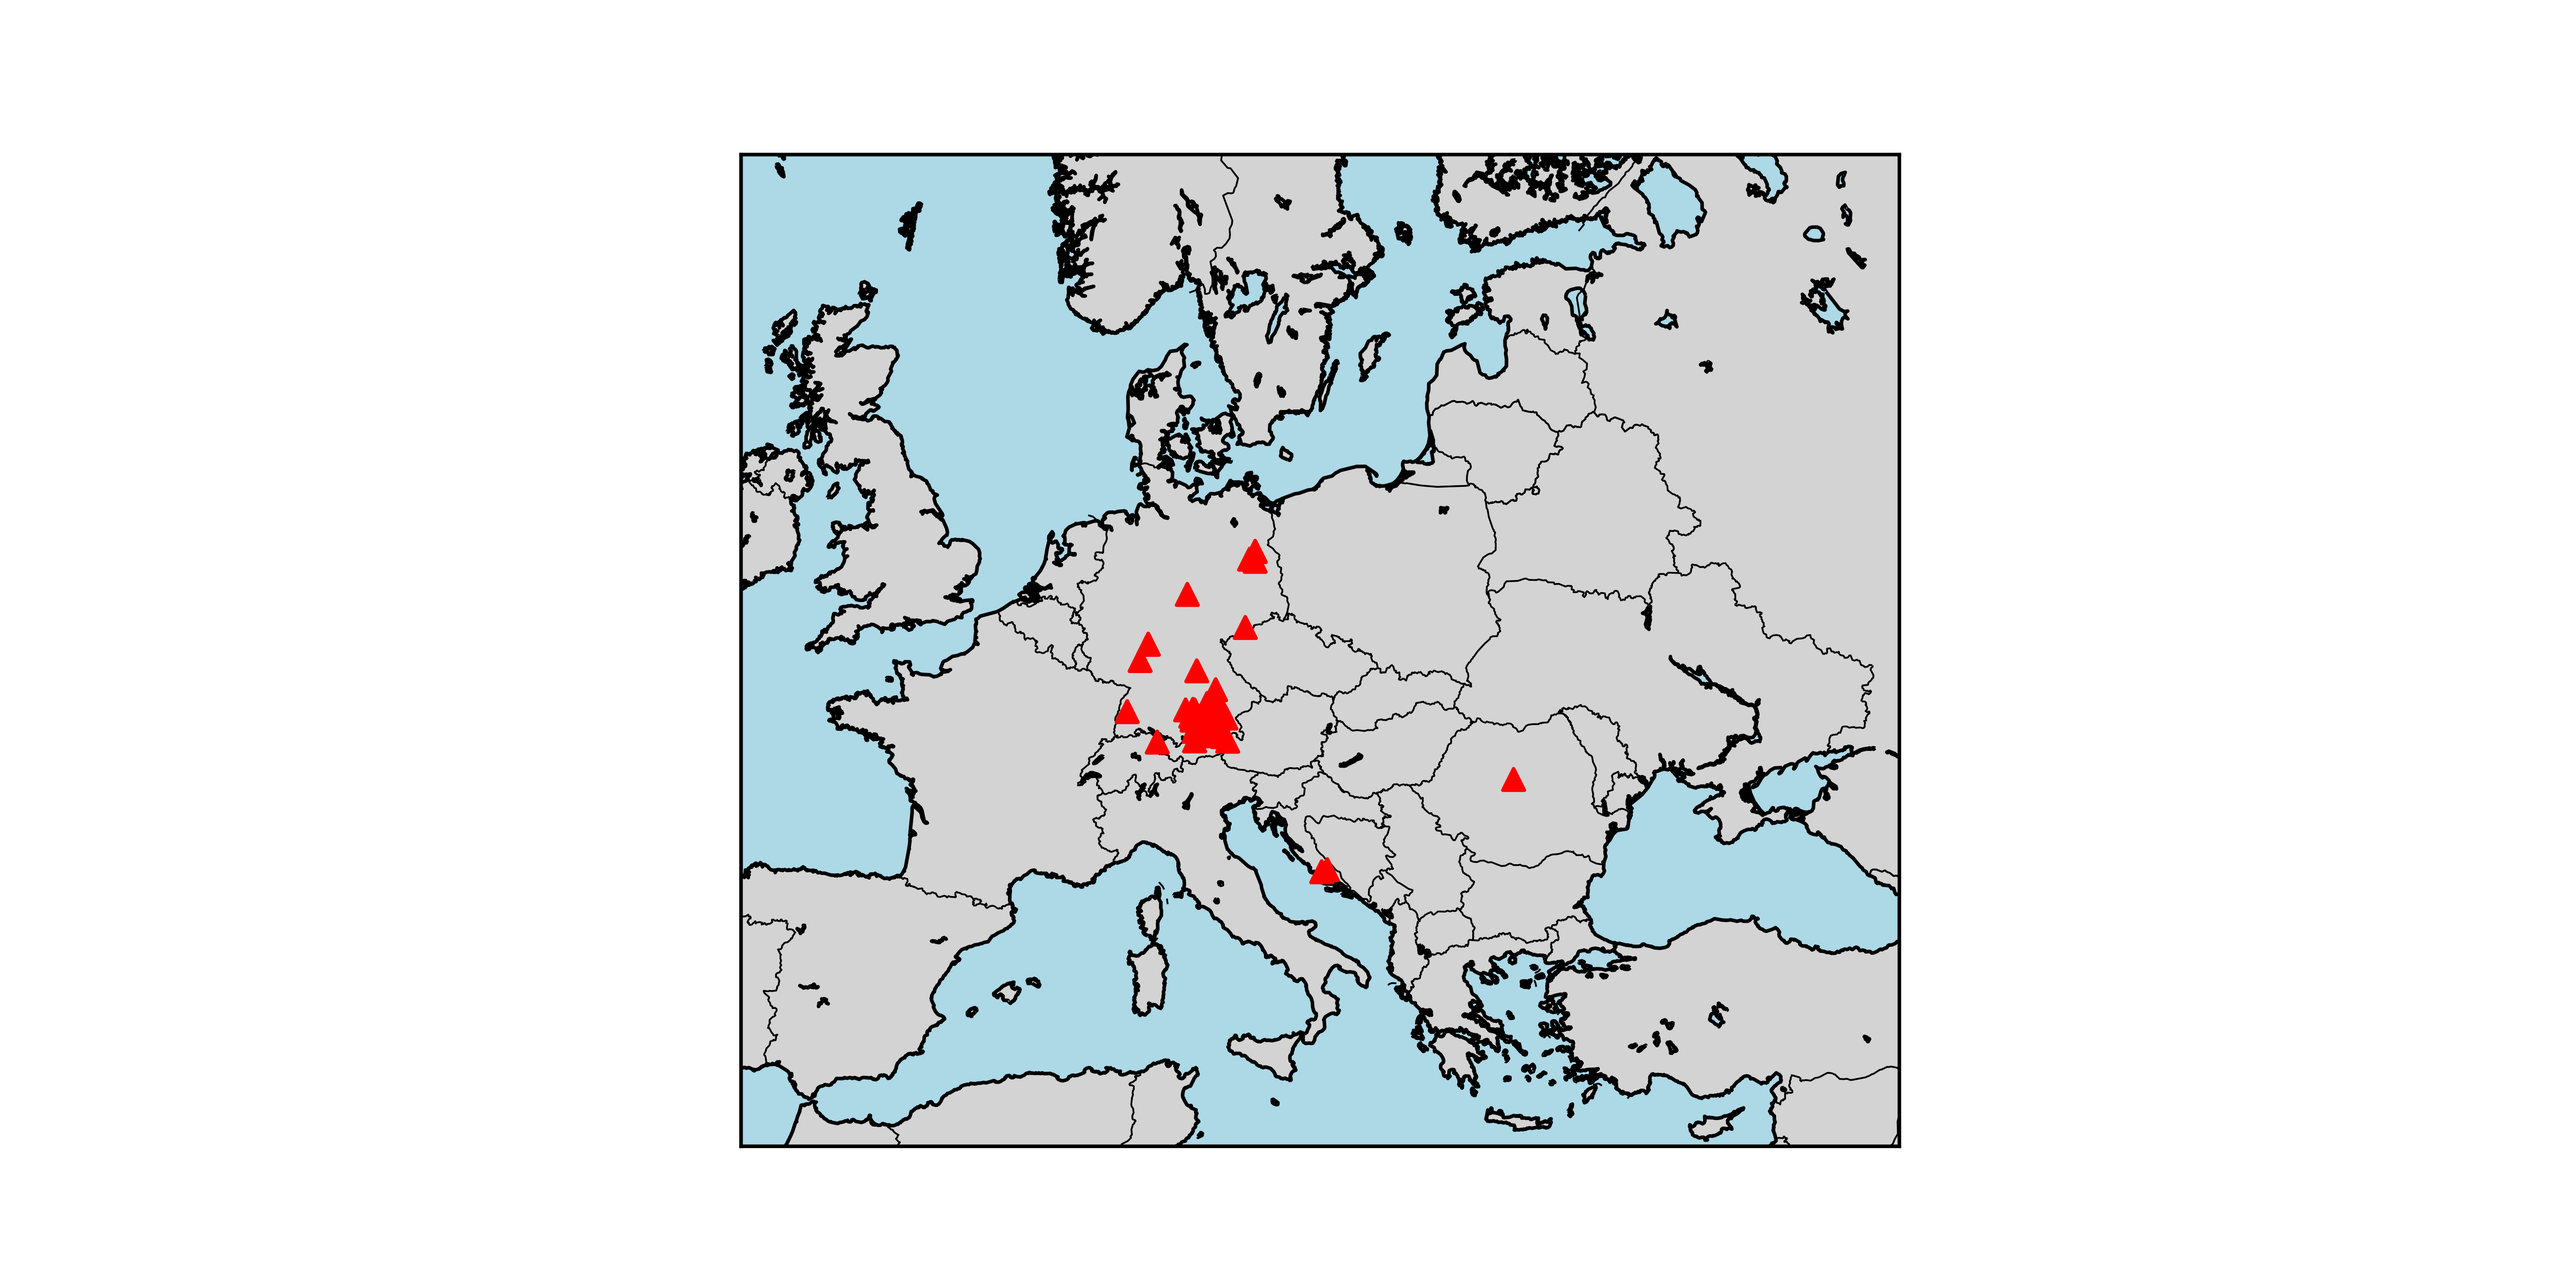
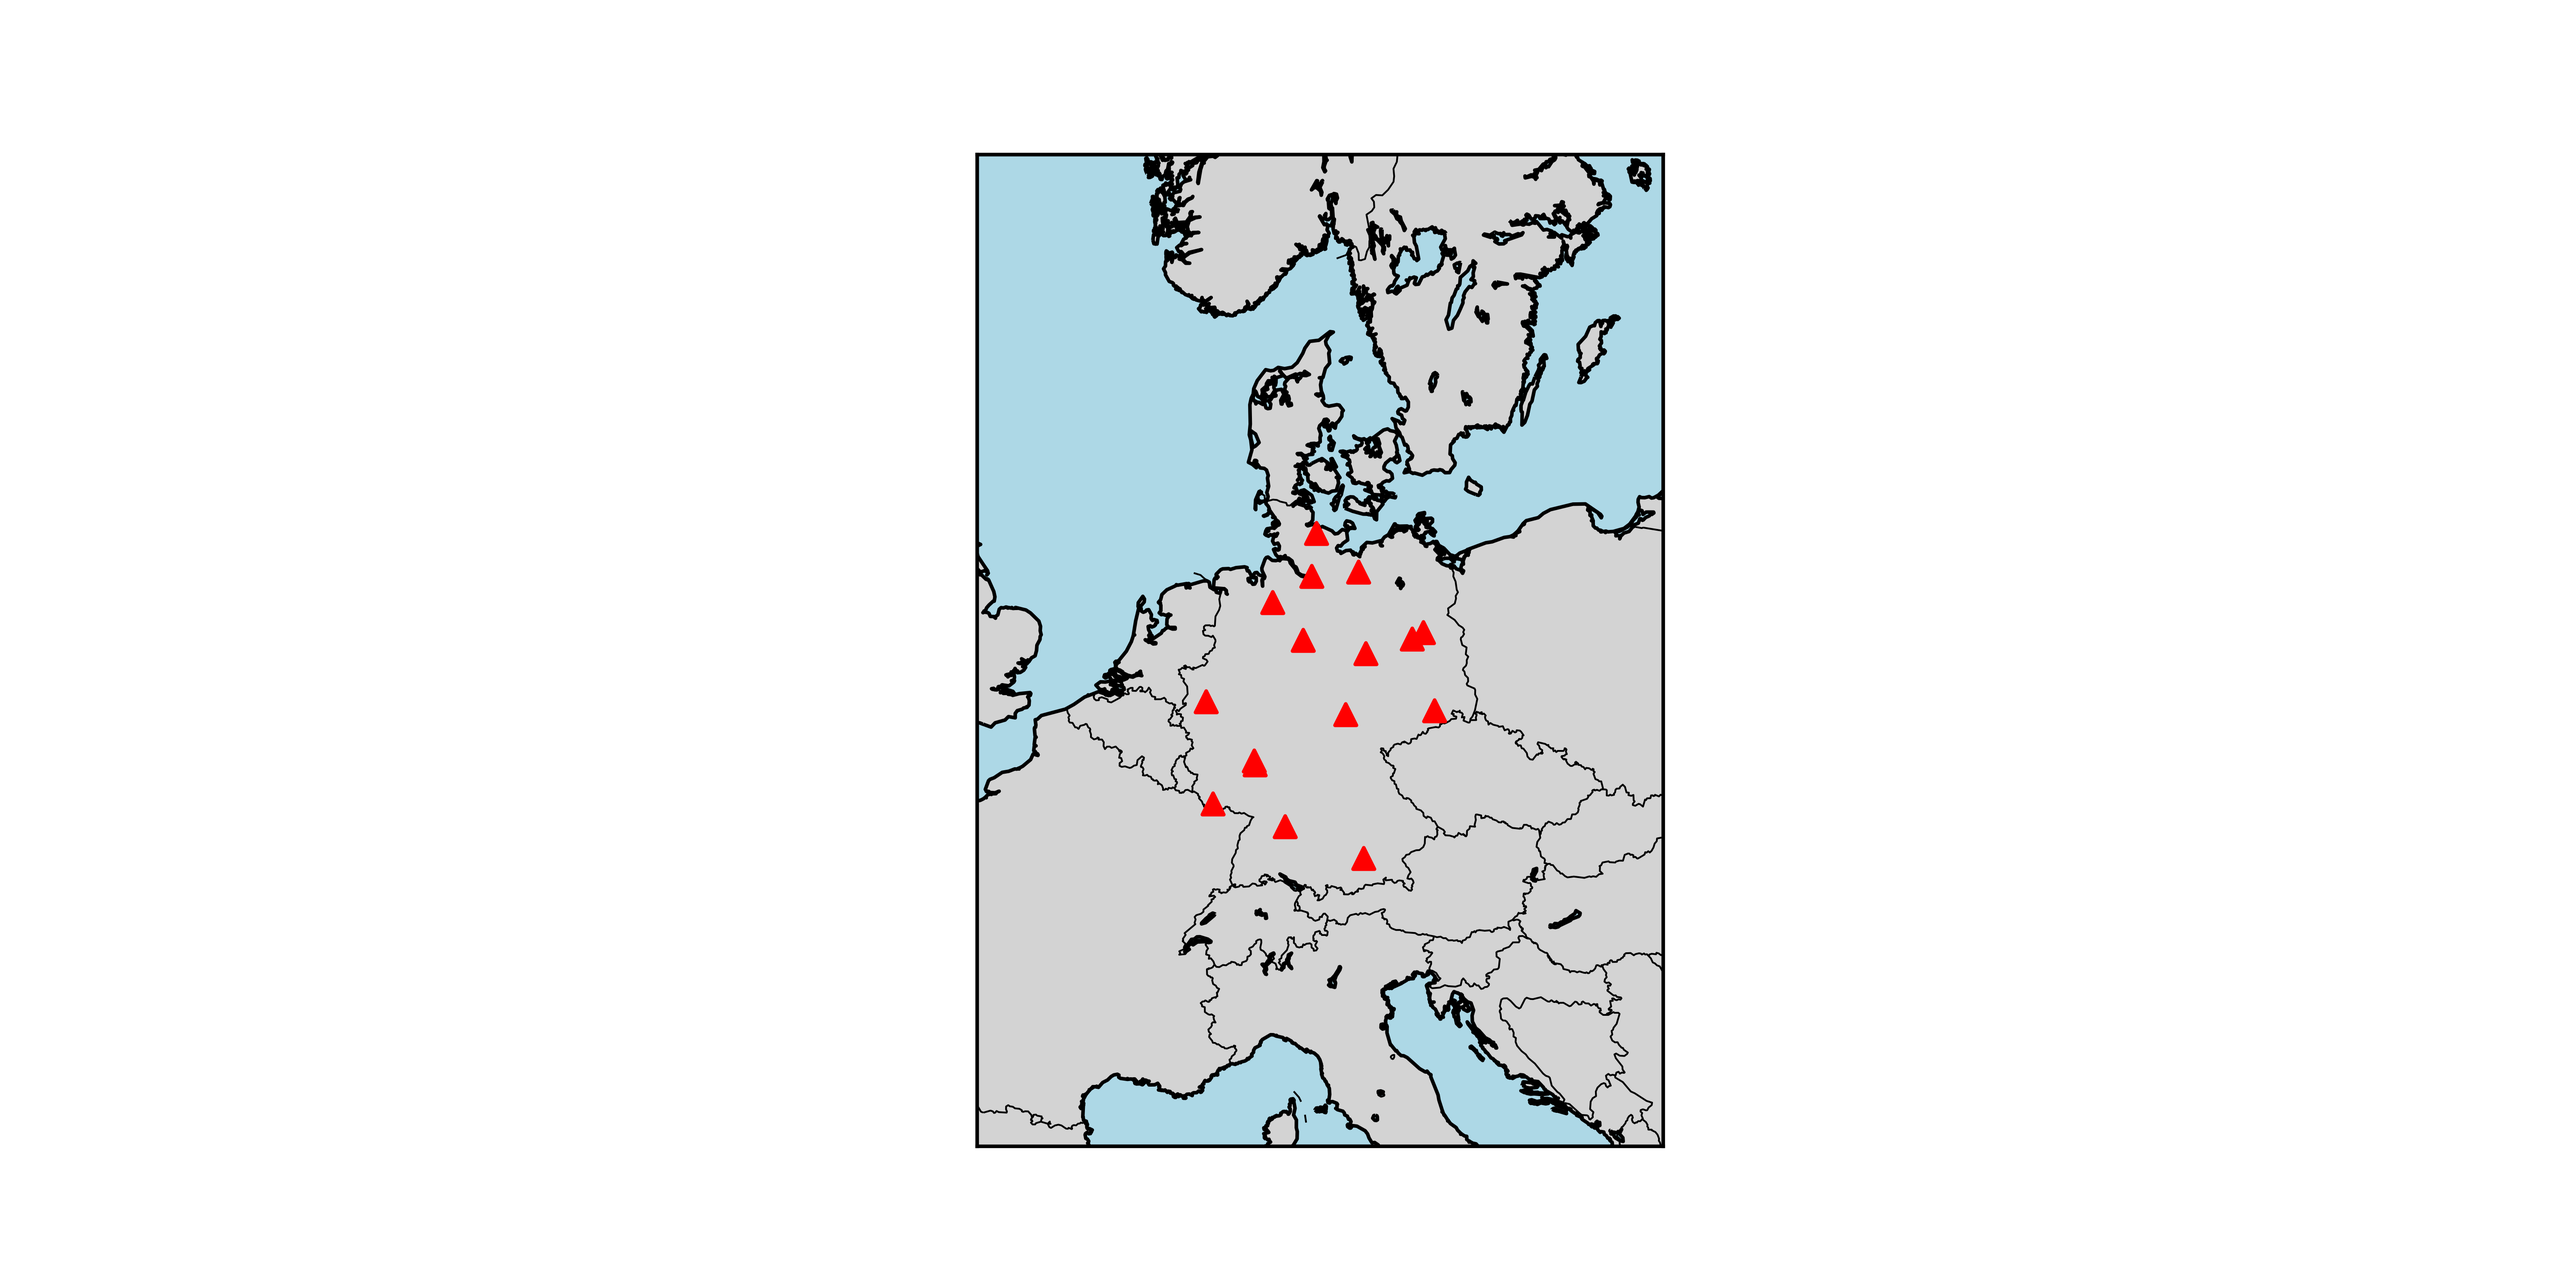
geoLocViz: added new example with the capital cities of the bundeslaender

Changed region(s): [[0.2805, 0.093, 0.748, 0.899]]

diff --git a/geoLocViz/bundeslaender_germany.md b/geoLocViz/bundeslaender_germany.md
@@ -1,0 +1,16 @@
+* 20230101 Stuttgart, Baden-Württemberg, Germany
+* 20230102 München, Bayern, Germany
+* 20230103 Potsdam, Brandenburg, Germany
+* 20230104 Bremen, Bremen, Germany
+* 20230105 Hamburg, Hamburg, Germany
+* 20230106 Wiesbaden, Hessen, Germany
+* 20230107 Schwerin, Mecklenburg-Vorpommern, Germany
+* 20230108 Hannover, Niedersachsen, Germany
+* 20230109 Düsseldorf, Nordrhein-Westfalen, Germany
+* 20230110 Mainz, Rheinland-Pfalz, Germany
+* 20230111 Saarbrücken, Saarland, Germany
+* 20230112 Dresden, Sachsen, Germany
+* 20230113 Magdeburg, Sachsen-Anhalt, Germany
+* 20230114 Kiel, Schleswig-Holstein, Germany
+* 20230115 Erfurt, Thüringen, Germany
+* 20230116 Berlin, Berlin, Germany

diff --git a/geoLocViz/README.md b/geoLocViz/README.md
@@ -46,3 +46,7 @@ The script will read the locations, geocode them, and plot them on a map saved a
 ## Contributions
 
 Contributions, issues, and feature requests are welcome. Feel free to check issues page if you want to contribute.
+
+## Example run with `bunderslaender_germany.md`:
+
+![](map.png)
